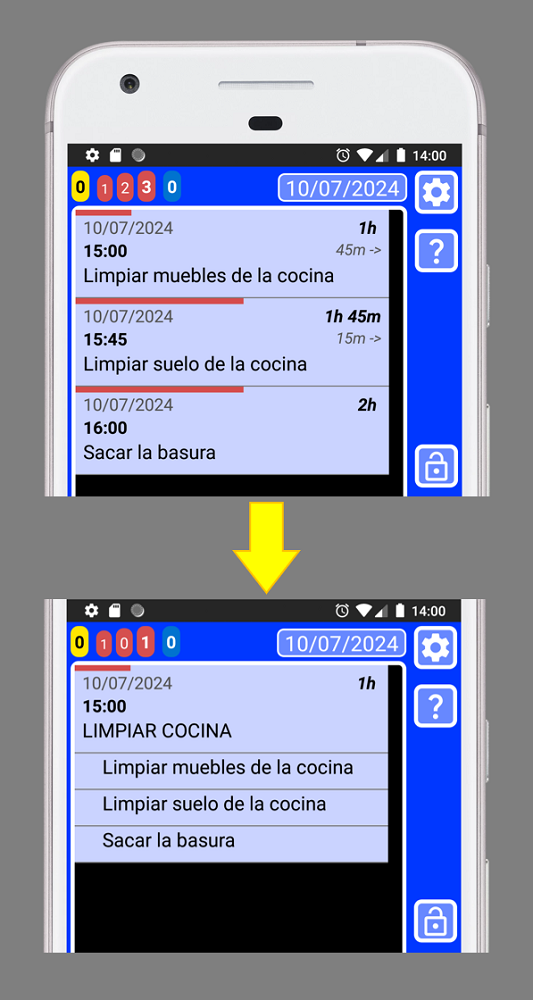
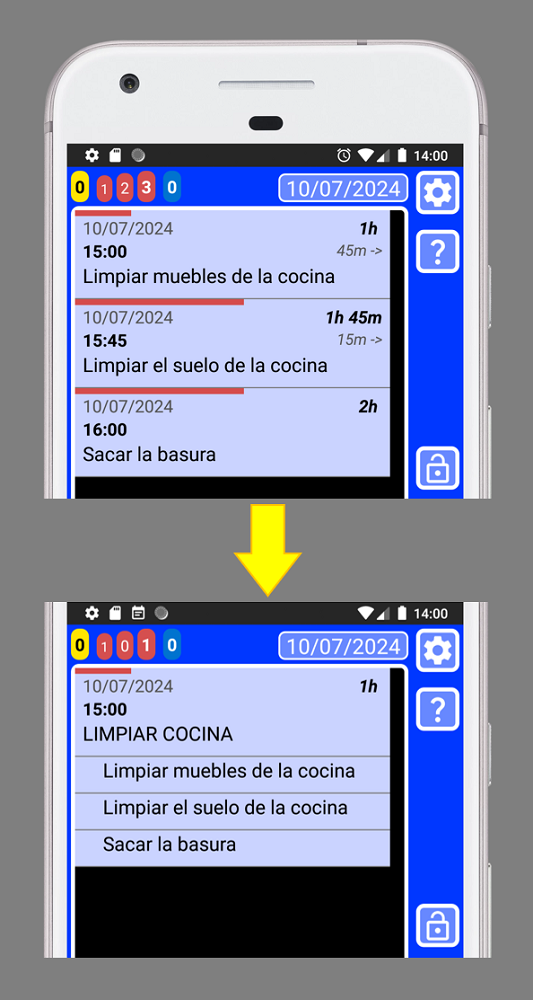
1130

diff --git a/create-shopping-list_ESP.html b/create-shopping-list_ESP.html
@@ -55,8 +55,14 @@
 			&emsp;. ¡Si agregas el nombre de la tienda, incluso podrás saber dónde compraste esa tarta que tanto te gustó! <br>
 			<br>
 			Cuando termines de comprar, puedes agregar el precio total en la cabecera de la lista. Luego, si usas la misma lista de la compra en diferentes tiendas, podrás ver la diferencia de precio. <br>
+			<br>
+			<b> Puedes utilizar listas para agrupar registros que sean similares y que deban completarse al mismo tiempo. Por ejemplo, si tienes 3 registros: 1) Limpiar muebles de la cocina, 2) Limpiar el suelo de la cocina, 3) Sacar la basura. Será más fácil crear una lista llamada “LIMPIAR COCINA” y agregarlos a la lista:<br>
+			<img src="pics/Shopping-Compression_ESP.png" class="responsive"/> <br>
+			<br>
+			De esta manera podrás mover todos los registros al mismo tiempo ya que ahora están agrupados por la lista. <br>
 			</i>
 			<br>
+			<br>			
 			<span style="font-size: 1.3em;"><u><b>Cómo crear una lista</b></u></span> <br>
 			<br>
 			<b>1.</b> Abre SECURElogBook y ve a la ventana principal, con fondo azul: <br>
